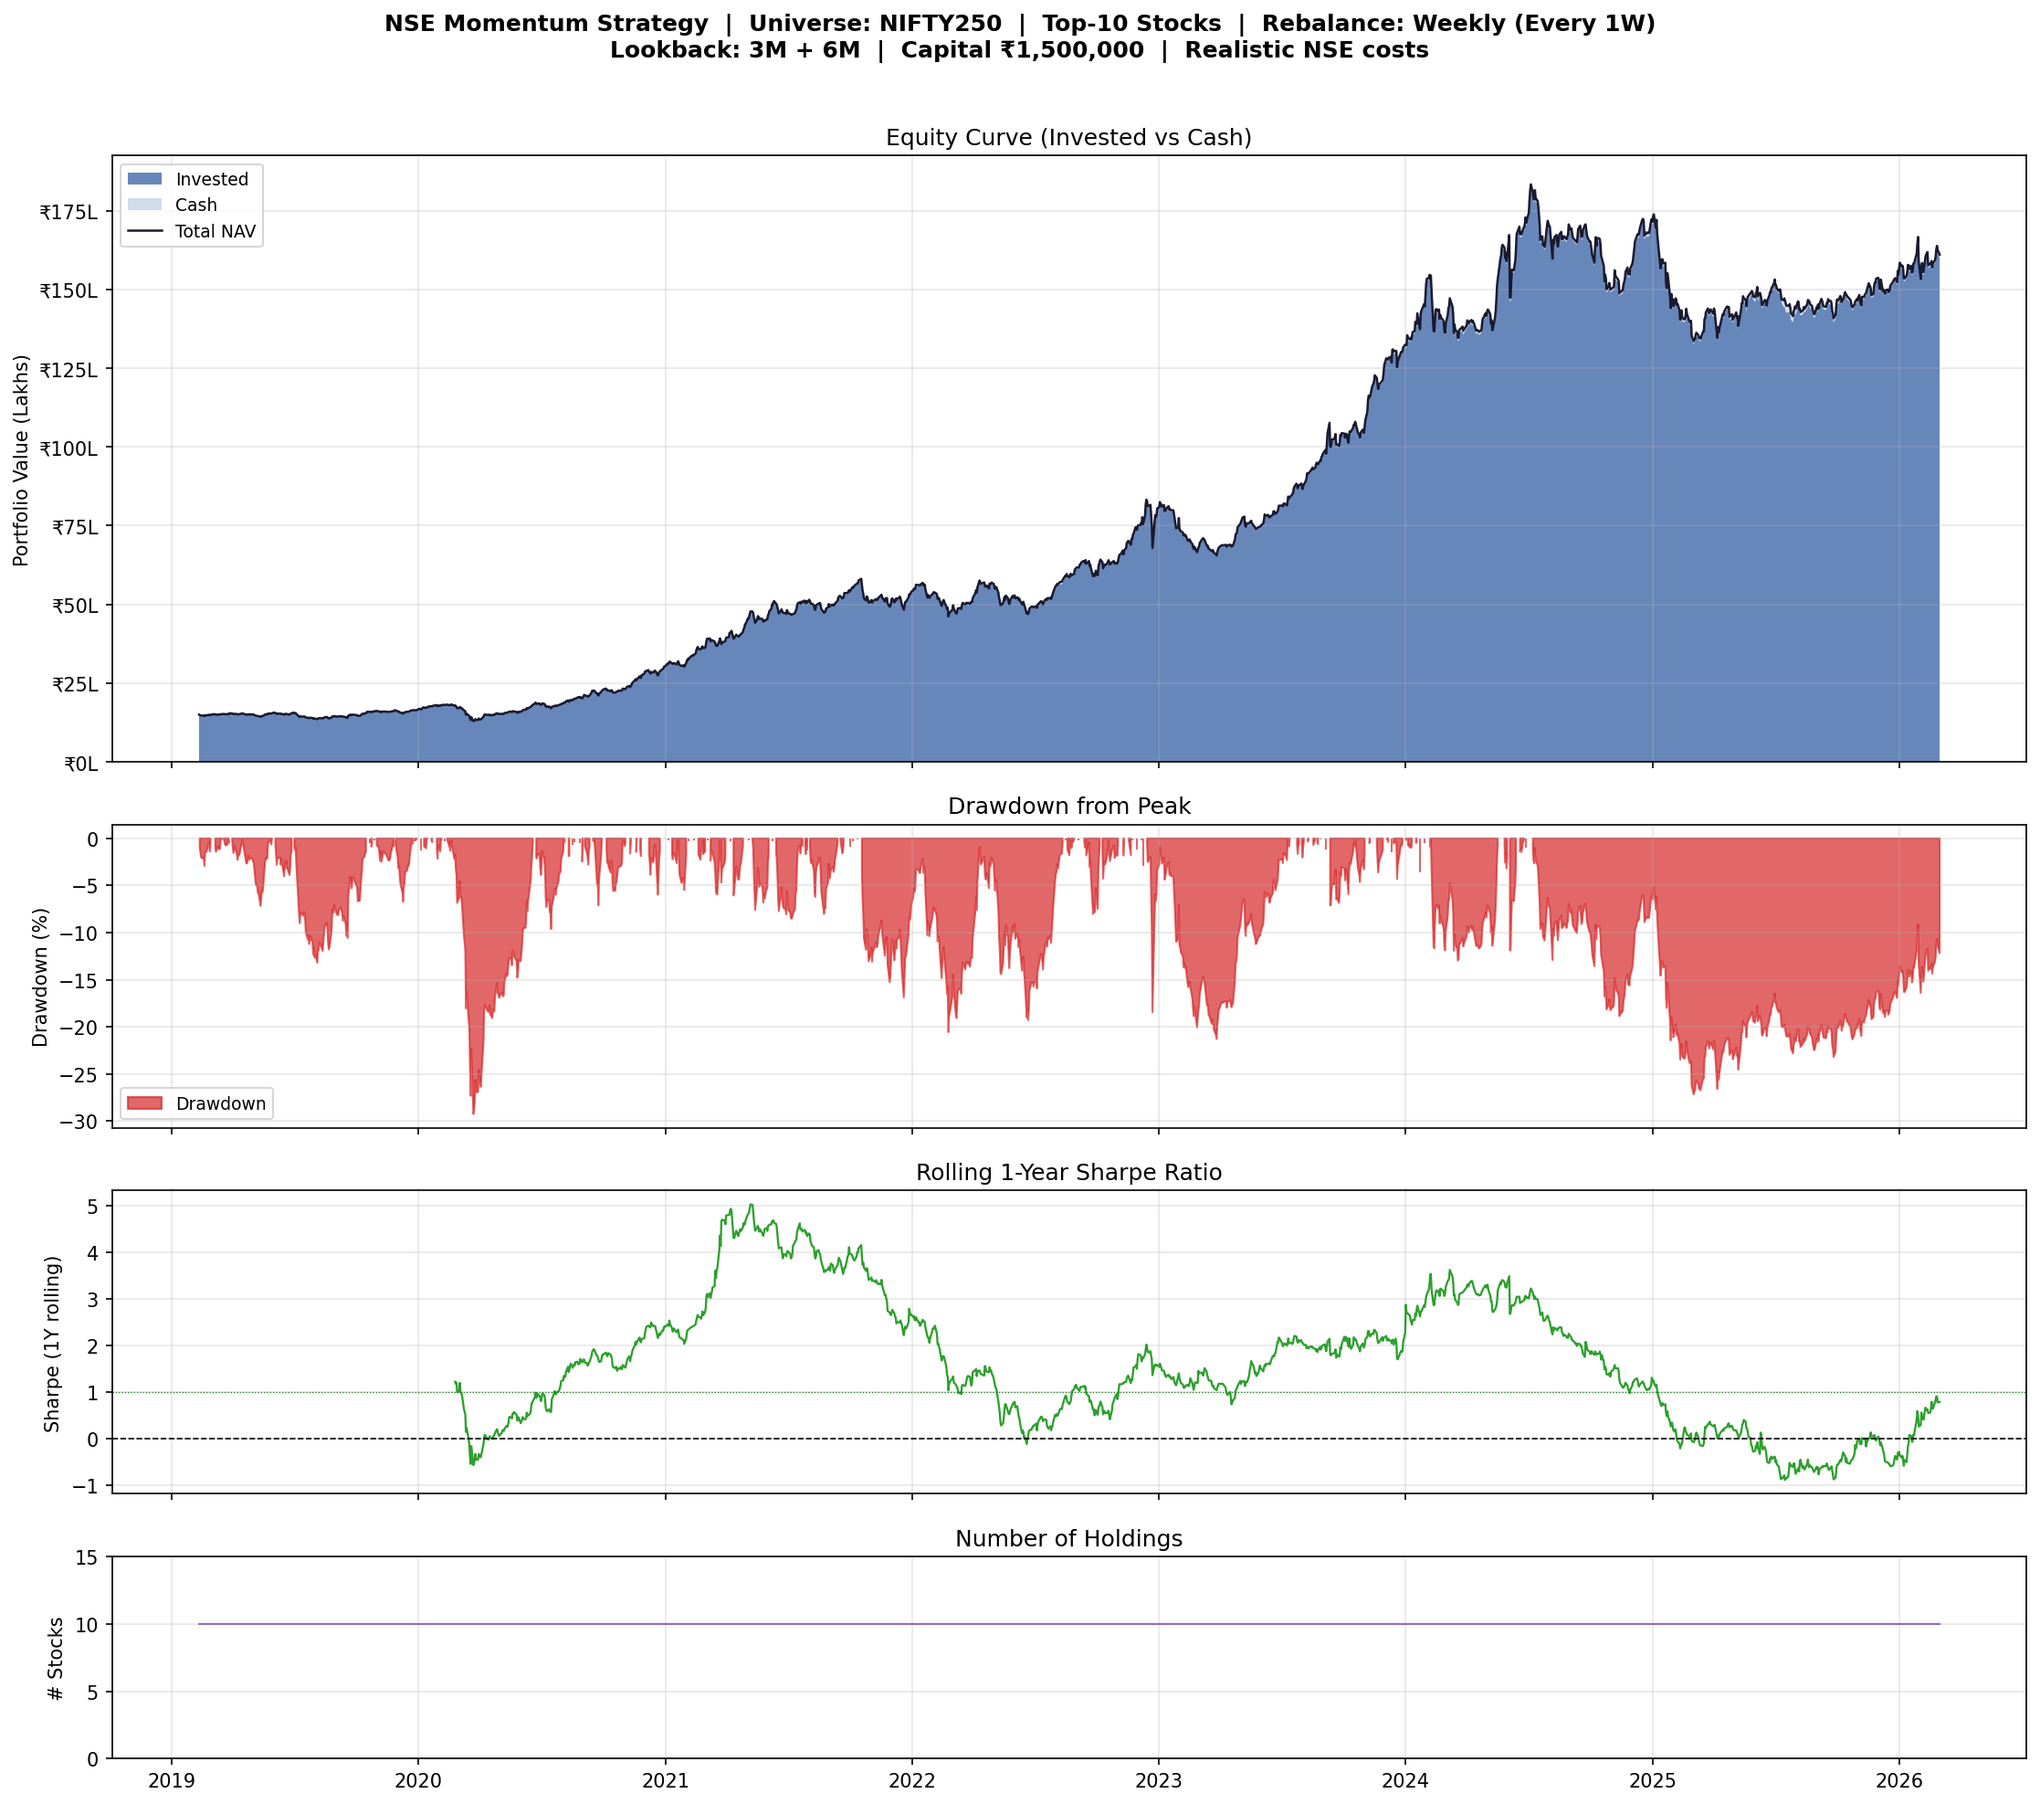
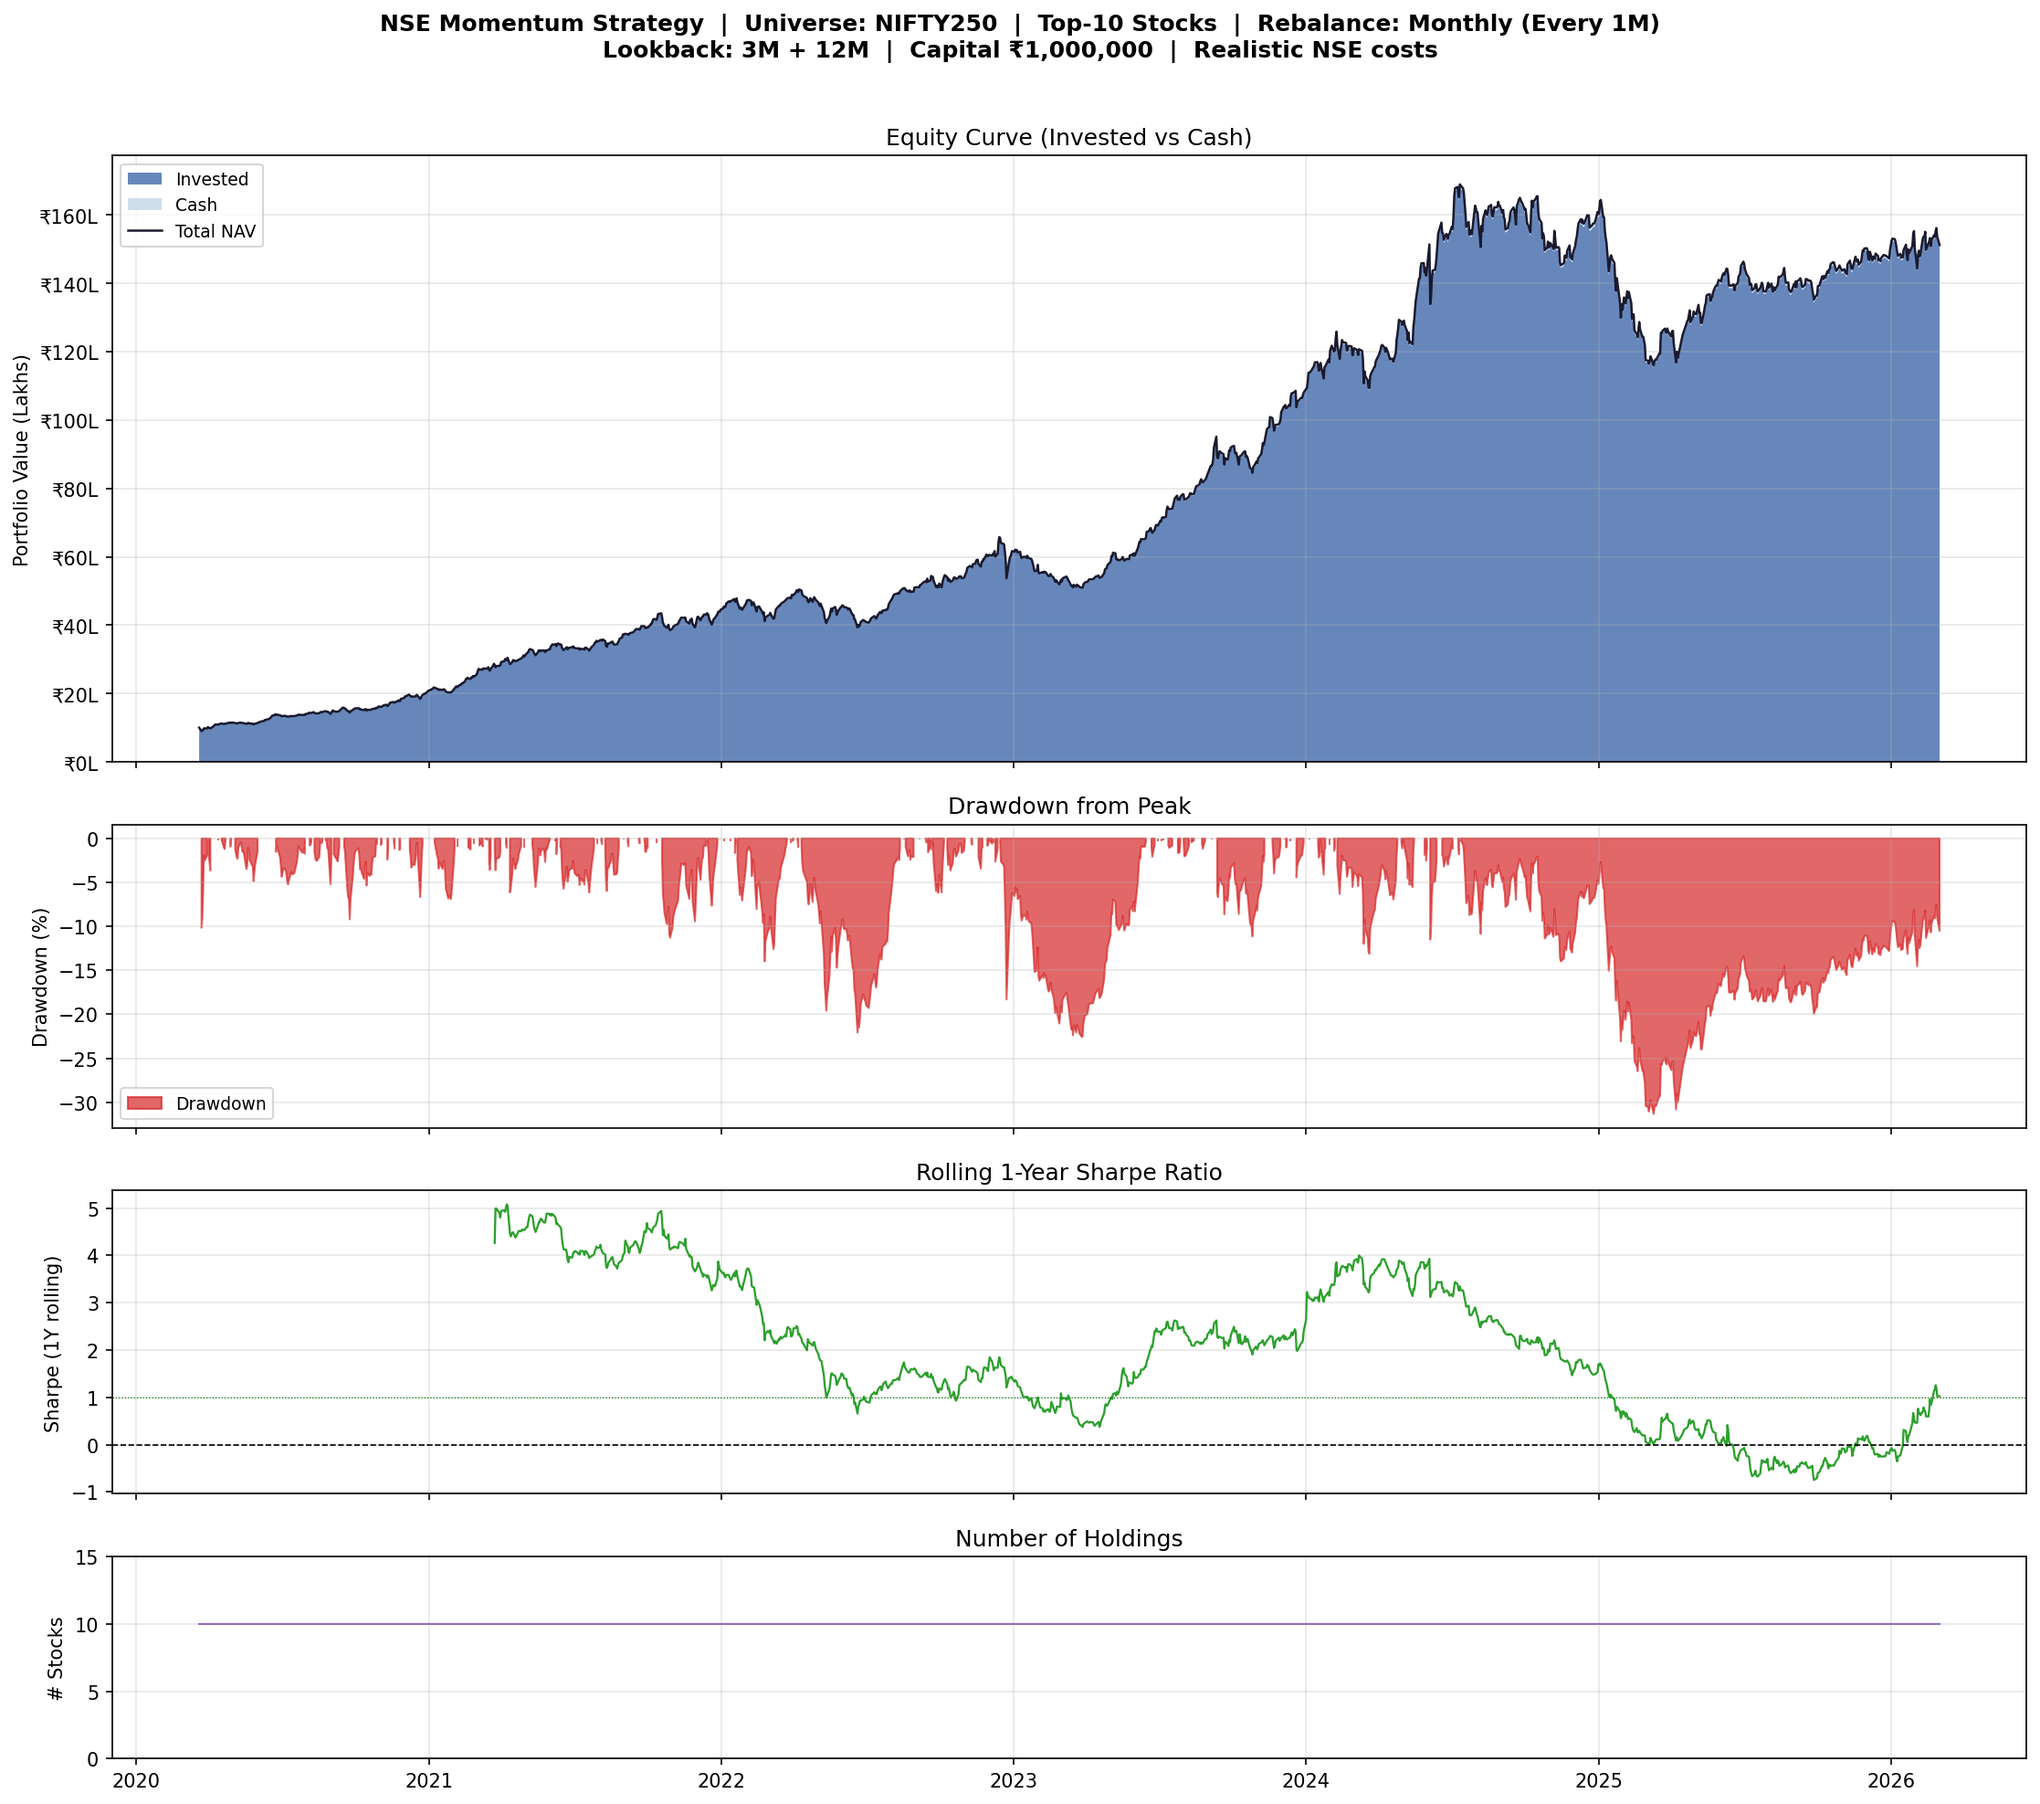
added backtest api

diff --git a/data ingestion/momentum_backtest_v1.py b/data ingestion/momentum_backtest_v1.py
@@ -6,8 +6,8 @@ import matplotlib.ticker as mticker
 # ── CONFIG ──────────────────────────────────────────────────────
 CSV_PATH         = "nifty250_log_return_volatility.csv"
 UNIVERSE         = "nifty250"
-INITIAL_CAPITAL  = 10_000_000
-START_DATE       = "2020-01-20"   # ← replaces START_YEAR; format: "YYYY-MM-DD"
+INITIAL_CAPITAL  = 1_000_000
+START_DATE       = "2020-03-20"   # ← replaces START_YEAR; format: "YYYY-MM-DD"
 
 # ── REBALANCE FREQUENCY ─────────────────────────────────────────
 # Set REBALANCE_FREQ to either:
@@ -20,14 +20,14 @@ REBALANCE_FREQ   = "monthly"   # "monthly" | "weekly"
 REBALANCE_MONTHS = 1           # used when REBALANCE_FREQ == "monthly"
 REBALANCE_WEEKS  = 1           # used when REBALANCE_FREQ == "weekly"
 
-LOOKBACK_1       = 6
+LOOKBACK_1       = 3
 LOOKBACK_2       = 12
 SKIP_MONTHS      = 0
 WEIGHT_1         = 0.5
 WEIGHT_2         = 0.5
 N_STOCKS         = 10
 MIN_PRICE        = 1.0
-MAX_PRICE        = 1_000_000
+MAX_PRICE        = 100_000
 CASH_BUFFER      = 0.005
 
 BROKERAGE        = 0.0003
